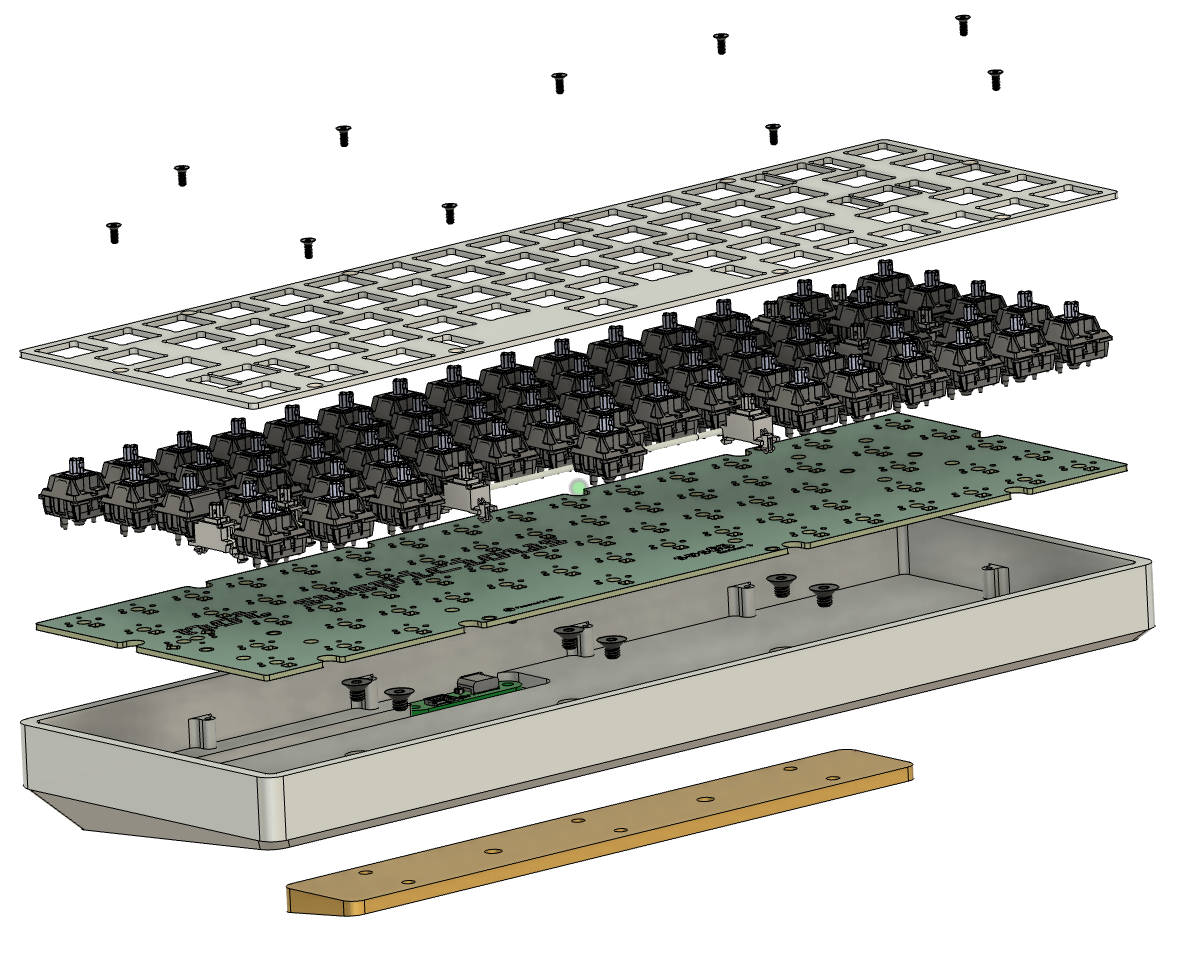
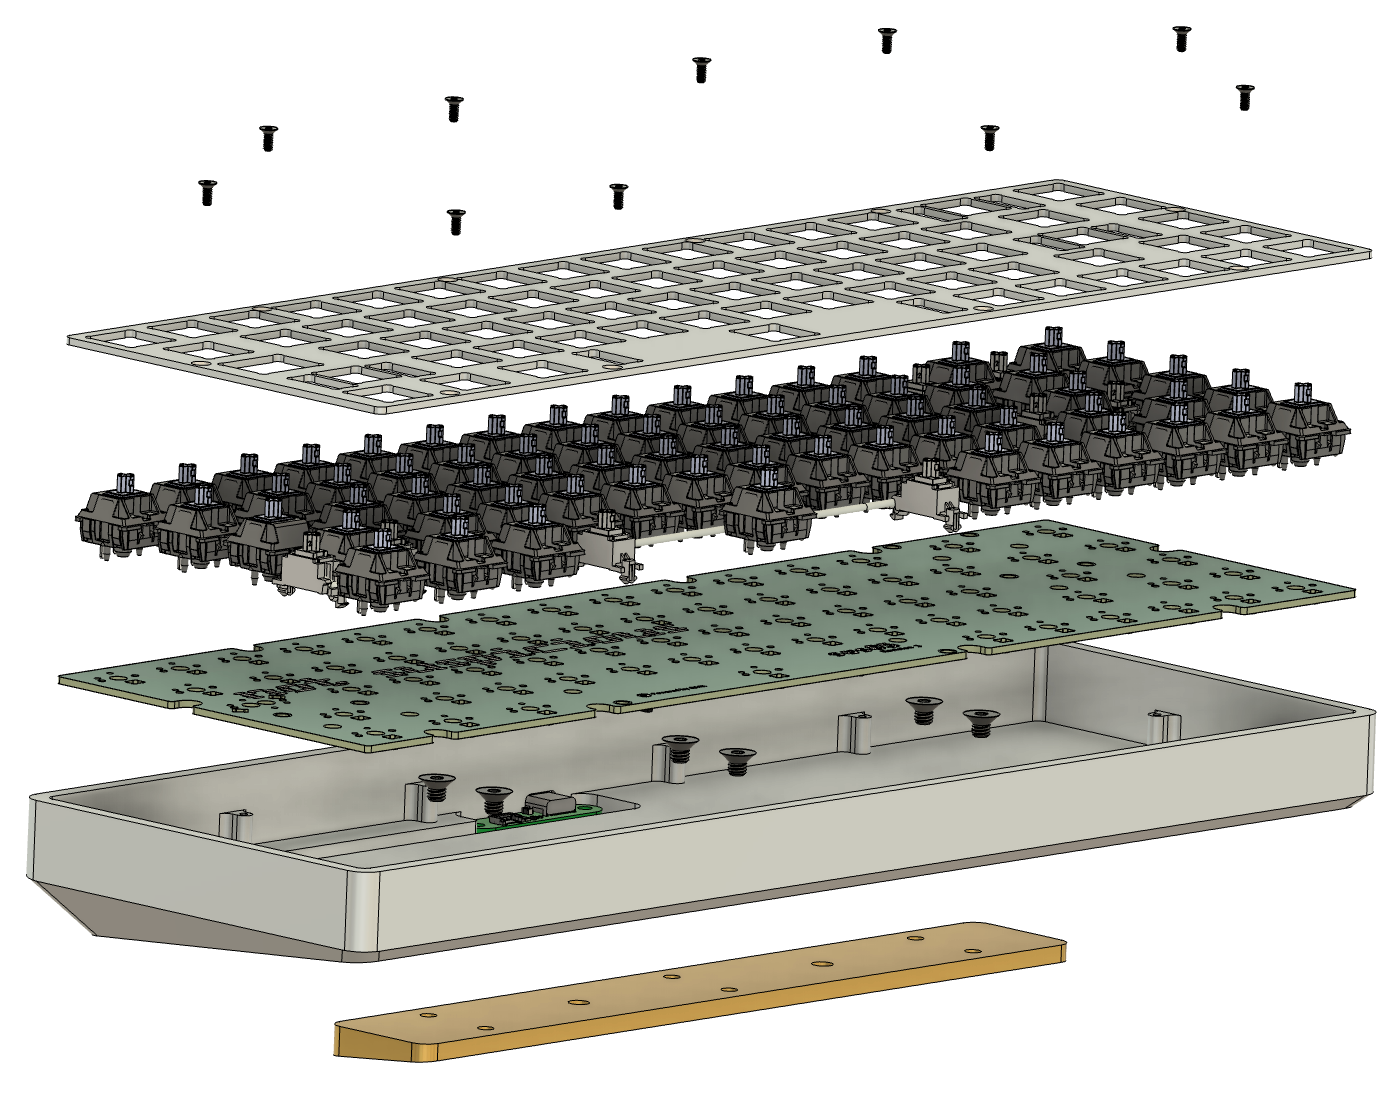
Added plate orientation image, fix exploded view dot

diff --git a/docs/sus.md b/docs/sus.md
@@ -47,6 +47,8 @@ The PCB will be pre-flashed with our latest QMK firmware and is tested before pa
 
 ## Prepare the Plate
 
+1. Ensure the plate is oriented correctly before you begin. Ensure the countersunk portion of the screw hole is facing up.
+![](images/sus/03-plate-orientation.png)
 1. Begin placing switches into the plate. You can either populate all of the switches and then align them with the PCB, or at a minimum populate a couple of switches in each corner of the plate before mating to the PCB.
 ![](images/sus/03-plate-with-switches.png)
 1. Note that *almost* all switches should be oriented with the pins at the top or north position. Review the PCB if alternate layouts have switches rotated. Notably:
